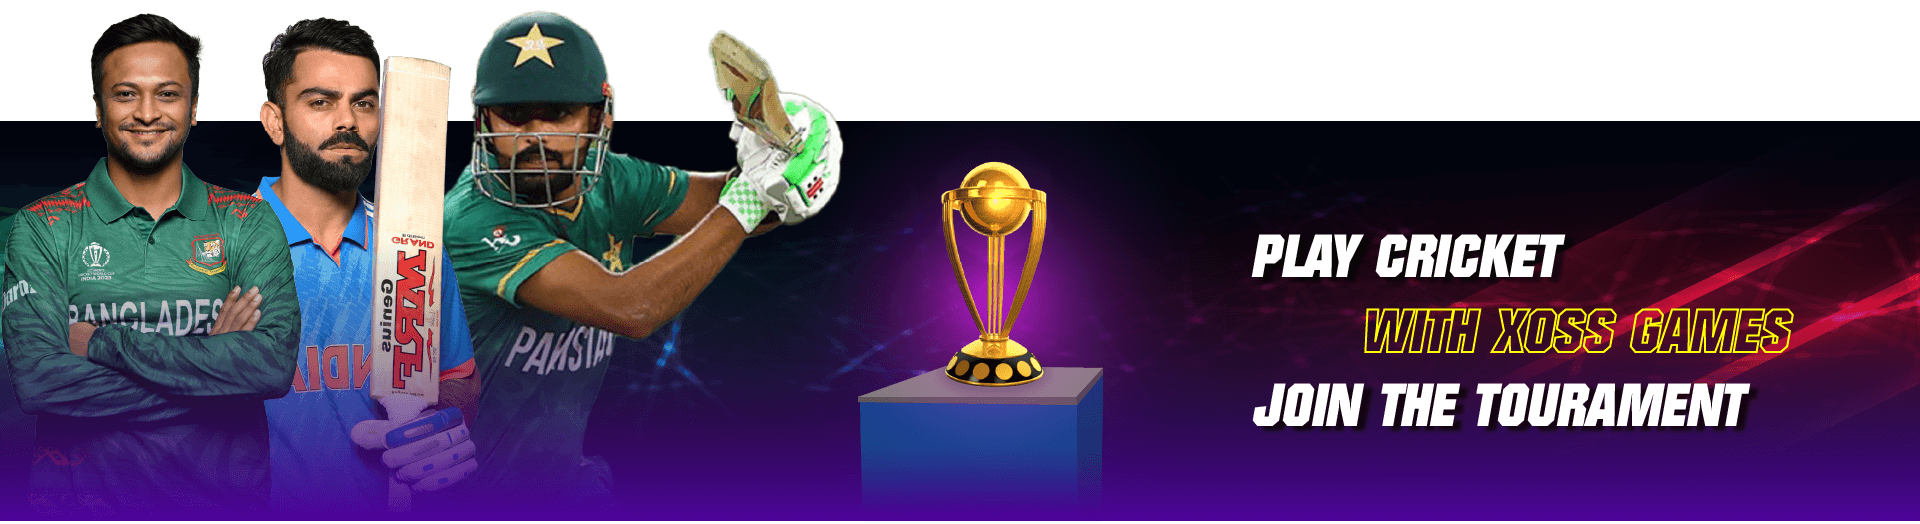
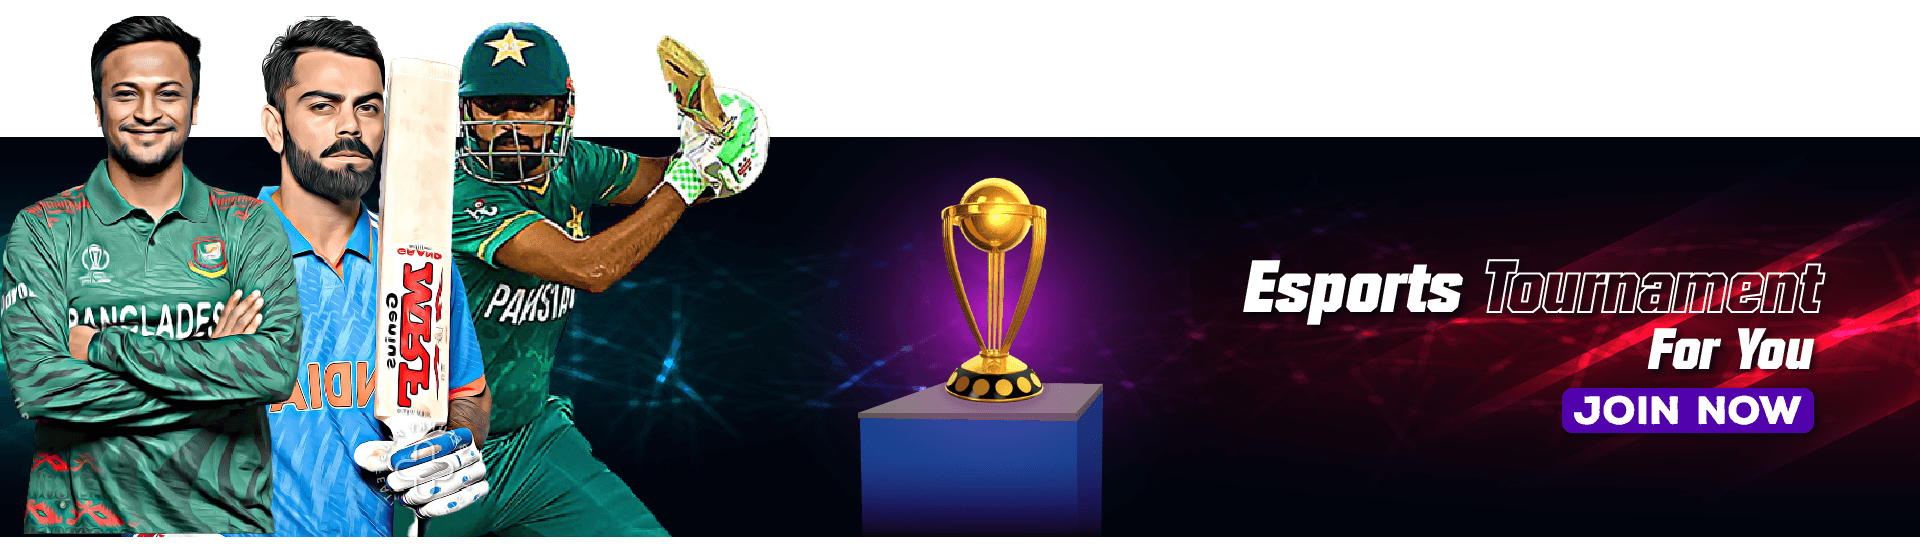
all pages are done

diff --git a/public/assets/frontend/css/main.css b/public/assets/frontend/css/main.css
@@ -1,3 +1,78 @@
+/* download apps */
+#download_apps 
+{
+  background: linear-gradient(#582f9b,#432574);
+  padding: 8rem 0;
+}
+#download_apps h1 
+{
+  color: #fff;
+  font-size: clamp(2rem,5vw,6rem);
+  line-height: 1.5;
+}
+#download_apps h2 
+{
+  color: #fff;
+  font-size: clamp(1.6rem,5vw,5rem);
+  line-height: 1.5;
+  text-transform: capitalize;
+  margin: 3rem 0;
+}
+/* download apps */
+
+/* socail media banner */
+#socail_media
+{
+  position: relative;
+  background: #3C1E6E;
+  margin-top: 5rem;
+  z-index: 2;
+
+}
+#socail_media::after
+{
+  content: '';
+  position: absolute;
+  top: 0;
+  left: 0;
+  width: 100%;
+  height: 100%;
+  background-image: url("socail-media-pattern.png");
+  background-size: 300px;
+  z-index: 1;
+  opacity: 0.3;
+}
+#socail_media h1 
+{
+  font-size: clamp(2rem,5vw,5rem);
+  color: #fff;
+  line-height: 1.5;
+  text-align: center;
+}
+.socail_media_character {
+  position: relative;
+  top: -50px;
+}
+.socail_media_character img 
+{
+  width: 600px;
+}
+#socail_media .socail_icons {
+  display: flex;
+  justify-content: flex-start;
+  border: none;
+}
+.socail_media_inner 
+{
+  position: relative;
+  display: flex;
+  align-items: center;
+  justify-content: space-between;
+  flex-wrap: wrap;
+  z-index: 3;
+}
+/* socail media banner*/
+
 /* referr friends */
 #reffer_your_friend 
 {
@@ -29,12 +104,19 @@
   z-index: 1000;
   text-align: center;
 }
+.reffer_invitaion_text .primary_btn {
+  padding: 1rem 2rem;
+  width: 220px;
+  font-size: 2.4rem;
+  font-weight: 600;
+}
 .reffer_invitaion_text h2
 {
   font-size: clamp(2rem,5vw,3.5rem);
   font-weight: 600;
   color: #3C1E6E;
   margin-bottom: 1rem;
+  line-height: 1.6;
 }
 .reffer_invitaion_text h2 span 
 {
@@ -81,18 +163,7 @@
   text-align: center;
   background: #e2edf4;
 }
-.demo_bg 
-{
-  background: #3C1E6E;
-  display: flex;
-  align-items: center;
-  justify-content: center;
-  height: 400px;
-  width: 100%;
-  color: #fff;
-  text-align: center;
-  border-radius: 15px;
-}
+
 .title 
 {
   font-size: clamp(1.6rem,5vw,3rem);
@@ -326,6 +397,7 @@
   height: 100%;
   background-image: url("launch_text_graphics.png");
   opacity: 0.2;
+  background-size: 1000px;
 }
 .prelanching_text 
 {
@@ -2657,6 +2729,7 @@ body {
   -ms-overflow-style: none; /* for Internet Explorer, Edge */
   scrollbar-width: none; /* for Firefox */
   overflow-y: none; 
+ 
 }
 .nav-link {
     position: relative !important;
@@ -3116,14 +3189,18 @@ html,
       overflow-x: hidden;
       overflow-y: auto;
       scroll-behavior: smooth;
+    
   }
 
 input {
     padding: 0.6rem 1rem;
 }
-
+p 
+{
+  font-weight: 500 !important;
+}
 body {
-  font-family: "Poppins", sans-serif;
+  font-family: 'Hind Siliguri', sans-serif !important;
   font-weight: 400;
   line-height: 1.7;
   box-sizing: border-box;
@@ -6147,6 +6224,19 @@ main#questions {
   .card__wrapper .card__body .card__text {
     font-size: 16px;
   }
+  .socail_media_character img {
+    width: 100%;
+}
+.socail_media_character {
+  position: relative;
+  top: -20px;
+}
+#socail_media {
+  padding: 5rem 0;
+}
+.socail_media_inner {
+  justify-content: center;
+}
  .card_body {
     padding: 1rem 2rem 2rem;
 }
@@ -6389,7 +6479,9 @@ margin-left: 0;
   .footer__end__body__form .lng__selection {
     padding-right: 4rem;
   }
-
+  .mobile_gift {
+    display: none;
+}
   .section {
     padding: 1rem 0;
 }
@@ -6460,6 +6552,17 @@ margin-left: 0;
 .sidebar-content .profile_pic {
   text-align: center;
   margin: 0 auto;
+}
+.reffer_invitaion_text .primary_btn {
+  padding: 1rem 2rem;
+  width: 180px;
+  font-size: 1.8rem;
+  font-weight: 600;
+
+}
+.apps_mockup img {
+  width: 200px;
+  margin-top: 3rem;
 }
 .user_name {
   text-align: center;
@@ -6727,6 +6830,13 @@ margin-left: 0;
   animation: moveBg 80s linear infinite alternate;
   /* background: rgb(60 30 110 / 92%); */
 }
+.reffer_invitaion_text h2 {
+  font-size: clamp(2rem,5vw,3.5rem);
+  font-weight: 600;
+  color: #3C1E6E;
+  margin-bottom: 1rem;
+}
+
 .inputBox {
     margin-bottom: 0.5rem;
 }

diff --git a/resources/views/frontend/tournament/index.blade.php b/resources/views/frontend/tournament/index.blade.php
@@ -329,31 +329,67 @@
     </section>
     <!-- --------------------------TOURNAMENT PRIZES END ------------------------ -->
 
-    <!-- --------------------------TOURNAMENT PRIZES START ------------------------ -->
-    <section id="tournmanet_games_banner " class="custom_container section_margin ">
-        <div class="demo_bg">
-            <h1>Tournament Graphics 1920 * 400 </h1>
-        </div>
+    <!-- --------------------------TOURNAMENT GAMES ADS GRAPHICS START ------------------------ -->
+    <section id="tournmanet_games_banner " class="section_margin ">
+        <img src="{{ asset('assets/frontend/img/cricket-games-tournament-banner.png') }}" alt="" class="img-fluid">
     </section>
-    <!-- --------------------------TOURNAMENT PRIZES END ------------------------ -->
+    <!-- --------------------------TOURNAMENT GAMES ADS GRAPHICS END ------------------------ -->
 
-    <!-- --------------------------TOURNAMENT PRIZES START ------------------------ -->
-    <section id="tournmanet_games_banner " class="custom_container section_margin ">
-        <div class="demo_bg">
-            <h1>Tournament Graphics 1920 * 400 </h1>
+    <!-- --------------------------SOCAIL MEDIA BANNER START ------------------------ -->
+
+    <section id="socail_media">
+        <div class="custom_container">
+          <div class="socail_media_inner">
+            <div class="socail_media_character">
+                <img src="{{ asset('assets/frontend/img/socail_media_character.png') }}" alt="">
+            </div>
+            <div class="socail_medida_content">
+                <h1>আরও আপডেট পেতে ফলো করো <br> Xoss Games Social Media</h1>
+            </div>
+           
+            <div class="socail_icons">
+                <div class="icon">
+                    <a href="https://www.facebook.com/xoss.games" style="--i:#4267B2;" previewlistener="true"><i class="fa-brands fa-facebook-f"></i></a>
+                </div>
+                <div class="icon">
+                    <a href="https://www.youtube.com/@xossgames" style="--i:#FF0000;" previewlistener="true"><i class="fa-brands fa-youtube"></i></a>
+                </div>
+                <div class="icon">
+                    <a href="https://www.linkedin.com/showcase/xoss-games" style="--i:#0072b1;" previewlistener="true"><i class="fa-brands fa-linkedin-in"></i></a>
+                </div>
+                <div class="icon">
+                    <a href="https://www.instagram.com/xossgames" style="--i:#c72d8d;" previewlistener="true"><i class="fa-brands fa-instagram"></i></a>
+                </div>
+                <div class="icon">
+                    <a href="https://twitter.com/xossgames" style="--i:#1DA1F2;" previewlistener="true"><i class="fa-brands fa-twitter"></i></a>
+                </div>
+             </div>
+             
+          </div>
         </div>
     </section>
-    <!-- --------------------------TOURNAMENT PRIZES END ------------------------ -->
+
+    <!-- --------------------------SOCAIL MEDIA BANNER END ------------------------ -->
+
+    <!-- --------------------------TOURNAMENT GAMES ADS GRAPHICS START ------------------------ -->
+    <section id="tournmanet_games_banner " class="section_margin ">
+        <img src="{{ asset('assets/frontend/img/football-games-tournament-banner.png') }}" alt="" class="img-fluid">
+    </section>
+    <!-- --------------------------TOURNAMENT GAMES ADS GRAPHICS END ------------------------ -->
+
+    <!-- --------------------------SOCAIL MEDIA BANNER START ------------------------ -->
+    <!-- --------------------------SOCAIL MEDIA BANNER START ------------------------ -->
+
 
     <!-- -------------------------- REFERR PAGE START ------------------------ -->
-    <section id="reffer_your_friend" class="custom_container section_margin">
+    <section id="reffer_your_friend" class="section_margin">
         <div class="container-fluid">
             <div class="refeer_frinds">
                 <div class="reffer_img">
                     <img src="{{ asset('assets/frontend/img/referr-friends.png') }}" alt="" class="img-fluid">
                 </div>
                 <div class="reffer_invitaion_text">
-                    <h2>সর্বোচ্চ REFER করে বুঝে নাও <span>Smartphone</span> </h2>
+                    <h2>সর্বোচ্চ REFER করে বুঝে নাও  <span>Smartphone</span> </h2>
                     <h3>Invite Friends & Win Rewards!</h3>
                     @auth('subscriber')
                     <div class="join_now mt-5">
@@ -366,9 +402,36 @@
                     @endauth
                     
                 </div>
+                <div class="mobile_gift">
+                    <img src="{{ asset('assets/frontend/img/reffer_invite_mobile.webp') }}" alt="" width="200px">
+                </div>
                 
             </div>
         </div>
     </section>
     <!-- -------------------------- REFERR PAGE END ------------------------ -->
+
+    <!-- -------------------------- DWONLOAD APPS START -------------------------->
+    <section id="download_apps">
+        <div class="custom_container">
+          <div class="apps_inner row align-items-center">
+            <div class="apps_content col-md-6 text-center">
+                <h1>App ডাউনলোড করে <br> Experience করো <br> টুর্নামেন্টের আসল মজা</h1>
+                <h2>Download our app today!</h2>
+                <div class="download_btn">
+                    <a href="https://play.google.com/store/apps/details?id=com.naptechlabs.xoss.games" target="_blank">
+                        <img src="{{ asset('assets/frontend/img/google-playstore.webp') }}" alt="" width="200">
+                    </a>
+                </div>
+            </div>
+            <div class="apps_mockup col-md-6 text-center">
+                
+                <a href="https://play.google.com/store/apps/details?id=com.naptechlabs.xoss.games" target="_blank">
+                    <img src="{{ asset('assets/frontend/img/xoss-games-app-download-mockup.png') }}" alt="" class="img-fluid">
+                </a>
+            </div>
+          </div>
+        </div>
+    </section>
+    <!-- -------------------------- DWONLOAD APPS END ---------------------------->
 @endsection

diff --git a/resources/views/frontend/layouts/web.blade.php b/resources/views/frontend/layouts/web.blade.php
@@ -24,7 +24,7 @@
     <link rel="stylesheet" href="https://cdnjs.cloudflare.com/ajax/libs/font-awesome/6.3.0/css/all.min.css" />
     <!-- Fonts -->
     <link href="https://fonts.googleapis.com/css2?family=Luckiest+Guy&display=swap" rel="stylesheet">
-    <link href="https://fonts.googleapis.com/css2?family=Poppins:wght@400;500&display=swap" rel="stylesheet" />
+    <link href="https://fonts.googleapis.com/css2?family=Hind+Siliguri:wght@400;500;600;700&display=swap" rel="stylesheet">
     <!-- <link rel="stylesheet"
         href="https://cdnjs.cloudflare.com/ajax/libs/magnific-popup.js/1.1.0/magnific-popup.min.css" />-->
     <!-- FANCYBOX CSS LINK -->

diff --git a/resources/views/frontend/profile/my_game.blade.php b/resources/views/frontend/profile/my_game.blade.php
@@ -48,7 +48,7 @@
                             </div>
                         </div>
                     @empty
-                        <h1 class="text-center">Game Not Found</h1>
+                        <h1 class="text-center text-danger">You're not participate any tournament games</h1>
                     @endforelse
                 </div>
             </div>
